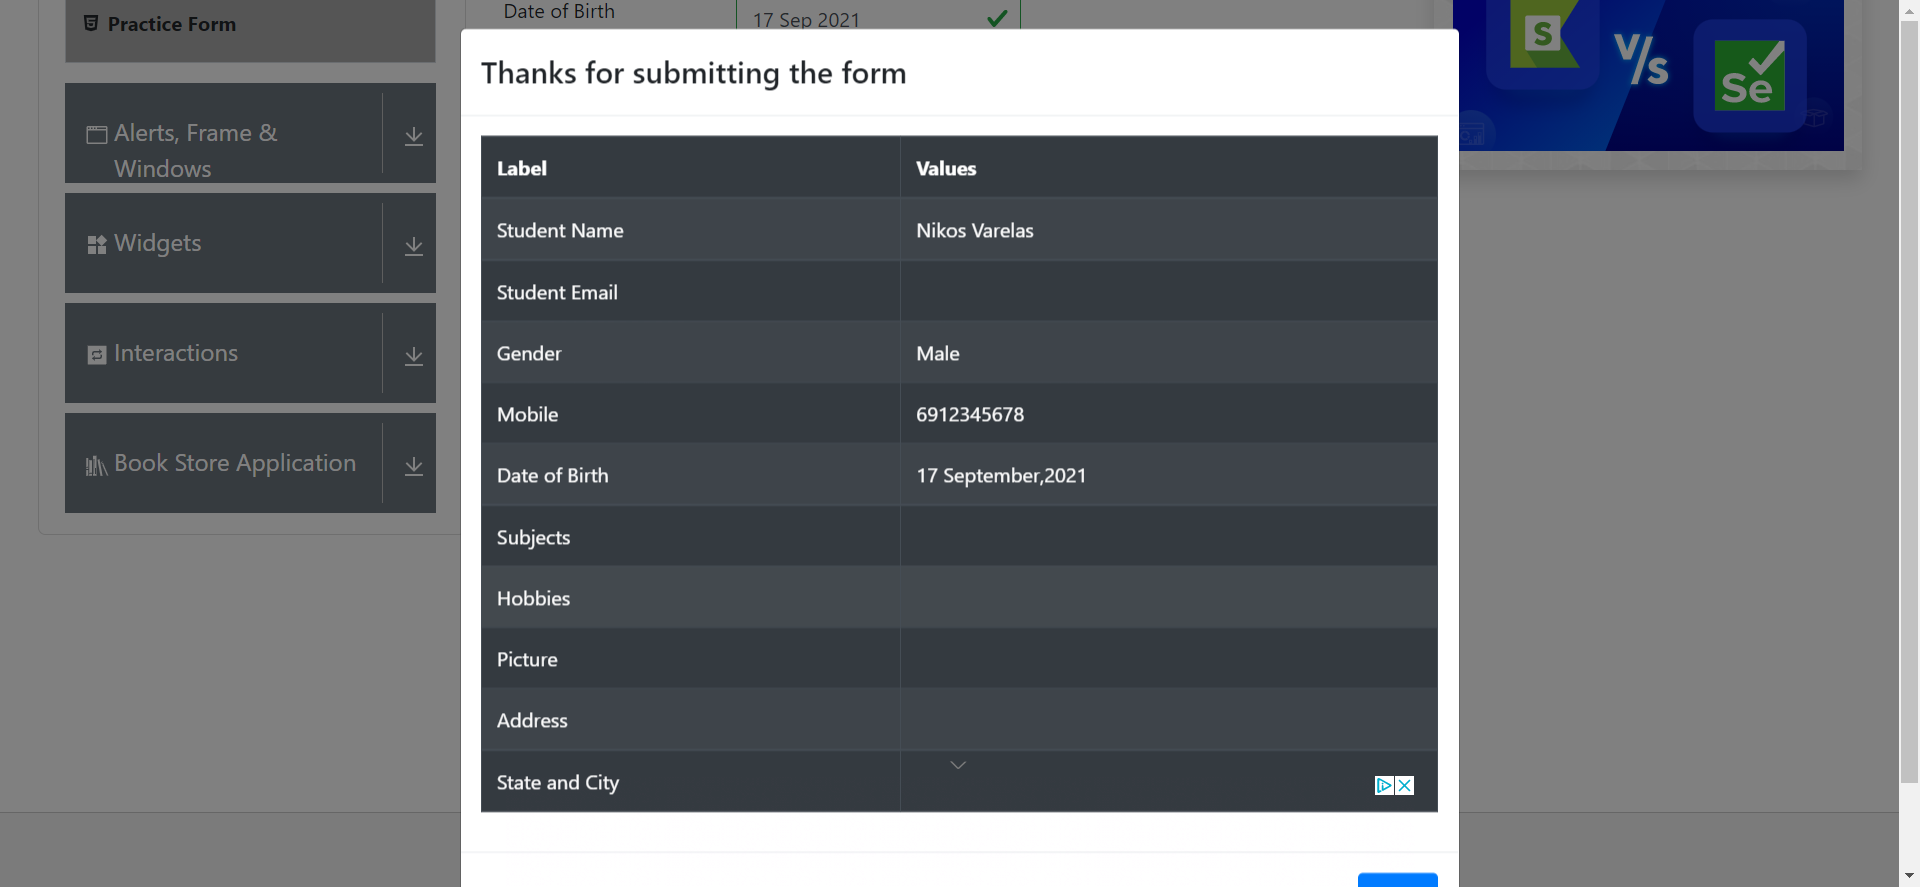
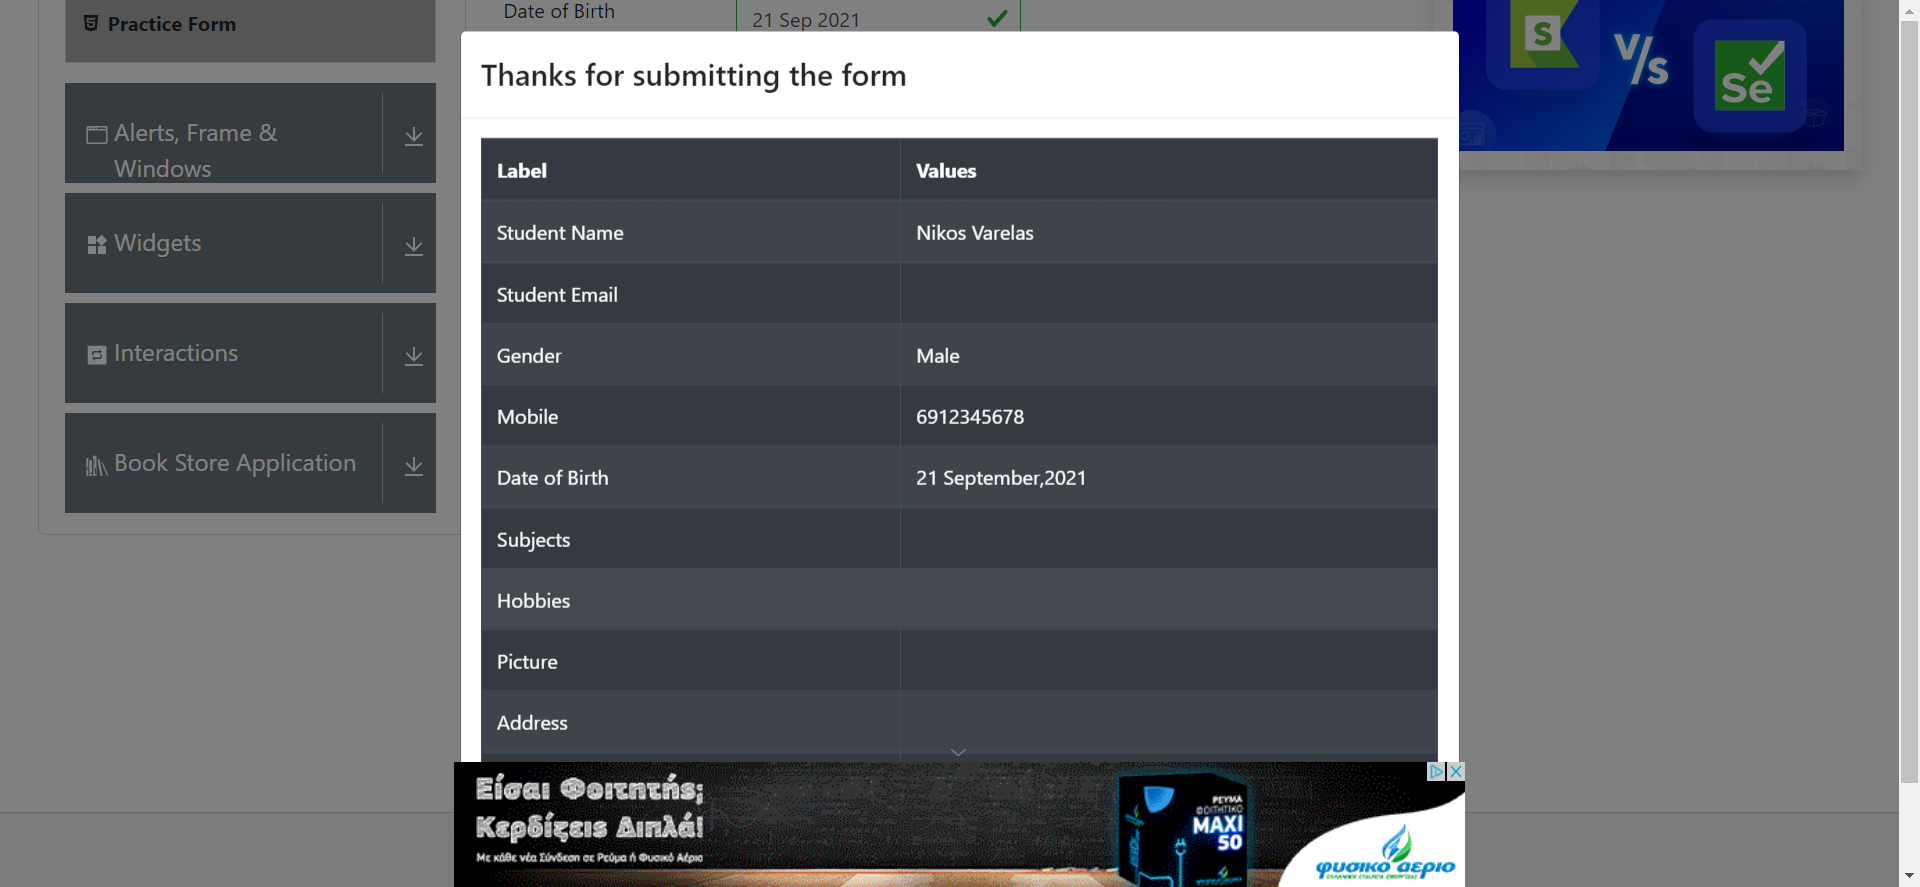
Update

diff --git a/Sheets/report.html b/Sheets/report.html
@@ -243,7 +243,7 @@ function filterTable(elem) { // eslint-disable-line no-unused-vars
 }
 </script>
     <h1>report.html</h1>
-    <p>Report generated on 17-Sep-2021 at 14:03:17 by <a href="https://pypi.python.org/pypi/pytest-html">pytest-html</a> v3.1.1</p>
+    <p>Report generated on 21-Sep-2021 at 12:13:58 by <a href="https://pypi.python.org/pypi/pytest-html">pytest-html</a> v3.1.1</p>
     <h2>Environment</h2>
     <table id="environment">
       <tr>
@@ -262,8 +262,8 @@ function filterTable(elem) { // eslint-disable-line no-unused-vars
         <td>Python</td>
         <td>3.9.7</td></tr></table>
     <h2>Summary</h2>
-    <p>2 tests ran in 11.34 seconds. </p>
-    <p class="filter" hidden="true">(Un)check the boxes to filter the results.</p><input checked="true" class="filter" data-test-result="passed" hidden="true" name="filter_checkbox" onChange="filterTable(this)" type="checkbox"/><span class="passed">2 passed</span>, <input checked="true" class="filter" data-test-result="skipped" disabled="true" hidden="true" name="filter_checkbox" onChange="filterTable(this)" type="checkbox"/><span class="skipped">0 skipped</span>, <input checked="true" class="filter" data-test-result="failed" disabled="true" hidden="true" name="filter_checkbox" onChange="filterTable(this)" type="checkbox"/><span class="failed">0 failed</span>, <input checked="true" class="filter" data-test-result="error" disabled="true" hidden="true" name="filter_checkbox" onChange="filterTable(this)" type="checkbox"/><span class="error">0 errors</span>, <input checked="true" class="filter" data-test-result="xfailed" disabled="true" hidden="true" name="filter_checkbox" onChange="filterTable(this)" type="checkbox"/><span class="xfailed">0 expected failures</span>, <input checked="true" class="filter" data-test-result="xpassed" disabled="true" hidden="true" name="filter_checkbox" onChange="filterTable(this)" type="checkbox"/><span class="xpassed">0 unexpected passes</span>
+    <p>1 tests ran in 5.68 seconds. </p>
+    <p class="filter" hidden="true">(Un)check the boxes to filter the results.</p><input checked="true" class="filter" data-test-result="passed" hidden="true" name="filter_checkbox" onChange="filterTable(this)" type="checkbox"/><span class="passed">1 passed</span>, <input checked="true" class="filter" data-test-result="skipped" disabled="true" hidden="true" name="filter_checkbox" onChange="filterTable(this)" type="checkbox"/><span class="skipped">0 skipped</span>, <input checked="true" class="filter" data-test-result="failed" disabled="true" hidden="true" name="filter_checkbox" onChange="filterTable(this)" type="checkbox"/><span class="failed">0 failed</span>, <input checked="true" class="filter" data-test-result="error" disabled="true" hidden="true" name="filter_checkbox" onChange="filterTable(this)" type="checkbox"/><span class="error">0 errors</span>, <input checked="true" class="filter" data-test-result="xfailed" disabled="true" hidden="true" name="filter_checkbox" onChange="filterTable(this)" type="checkbox"/><span class="xfailed">0 expected failures</span>, <input checked="true" class="filter" data-test-result="xpassed" disabled="true" hidden="true" name="filter_checkbox" onChange="filterTable(this)" type="checkbox"/><span class="xpassed">0 unexpected passes</span>
     <h2>Results</h2>
     <table id="results-table">
       <thead id="results-table-head">
@@ -277,17 +277,8 @@ function filterTable(elem) { // eslint-disable-line no-unused-vars
       <tbody class="passed results-table-row">
         <tr>
           <td class="col-result">Passed</td>
-          <td class="col-name">test_main.py::TestToolsQA::test_toolsqabooks</td>
-          <td class="col-duration">5.24</td>
-          <td class="col-links"></td></tr>
-        <tr>
-          <td class="extra" colspan="4">
-            <div class="empty log">No log output captured.</div></td></tr></tbody>
-      <tbody class="passed results-table-row">
-        <tr>
-          <td class="col-result">Passed</td>
           <td class="col-name">test_main.py::TestToolsQA::test_toolsqaform</td>
-          <td class="col-duration">5.96</td>
+          <td class="col-duration">5.60</td>
           <td class="col-links"></td></tr>
         <tr>
           <td class="extra" colspan="4">

diff --git a/utilities/BaseClass.py b/utilities/BaseClass.py
@@ -1,11 +1,8 @@
-import logging
-import pytest
 
-from tests.test_toolsqabooks import UnitTestBooks
+import pytest
 from tests.test_toolsqaform import UnitTestForm
 
 @pytest.mark.usefixtures("setup")
-class BaseClass(UnitTestForm,UnitTestBooks):
+class BaseClass(UnitTestForm):
 
     UnitTestForm()
-    UnitTestBooks()
